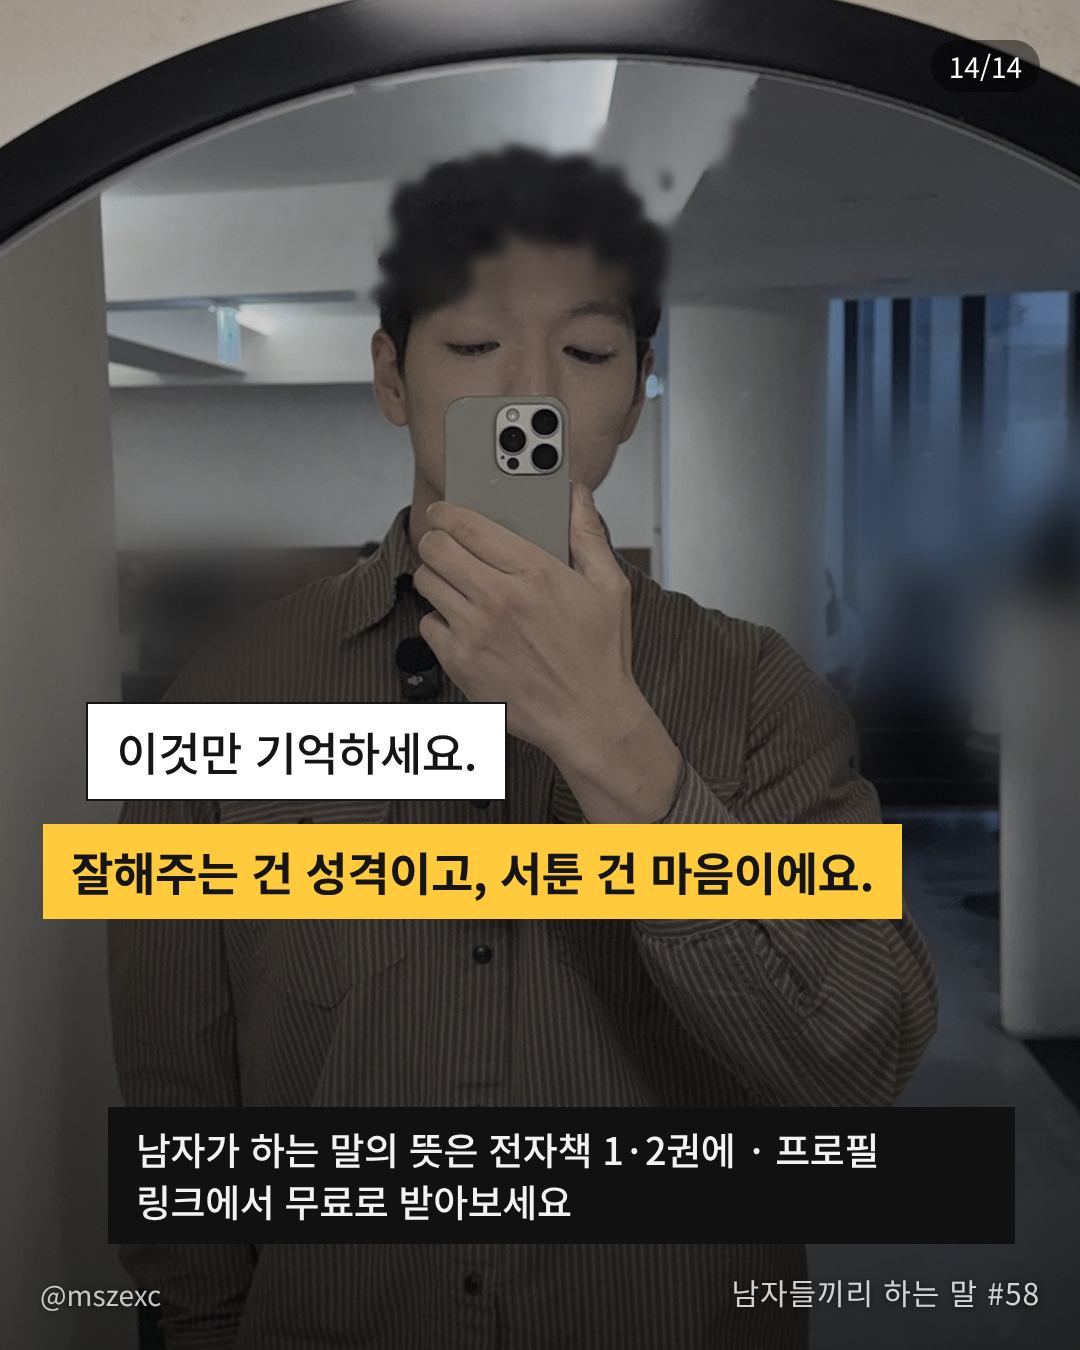
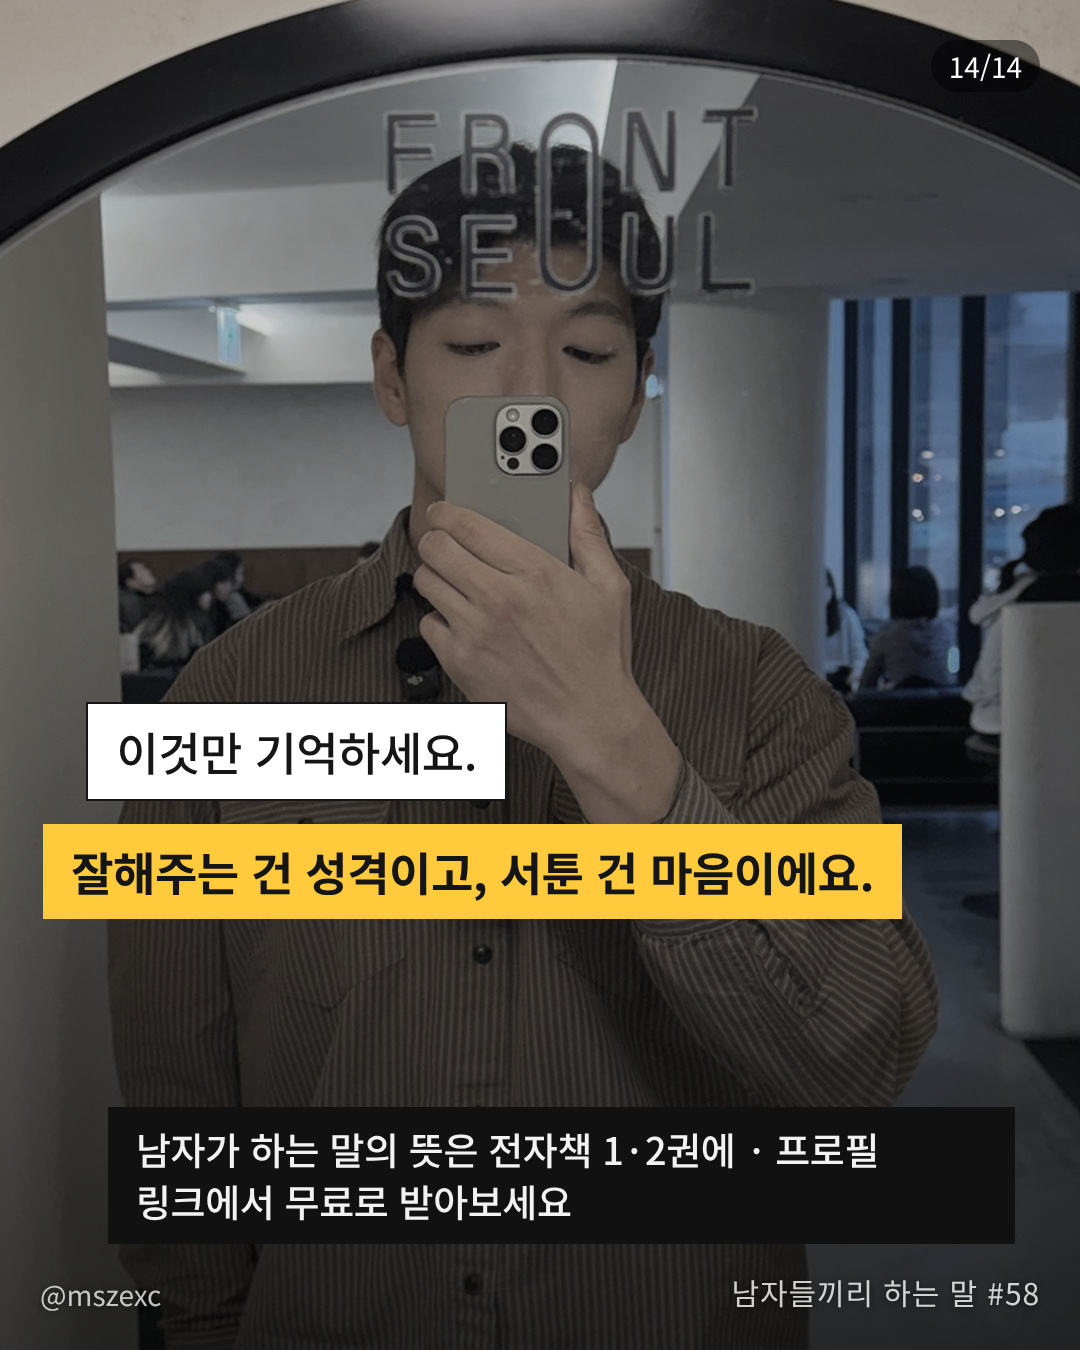
#58 last slide: original photo, no blur
Claude-Session: https://claude.ai/code/session_01J9i5yL8MFhQ5W67Sx3nDW6

Changed region(s): [[0.7639, 0.28, 1.0, 0.56], [0.3361, 0.0622, 0.7028, 0.2489], [0.0917, 0.3733, 0.275, 0.5289]]

diff --git a/carousel/photo_story/s57_60.py b/carousel/photo_story/s57_60.py
@@ -32,7 +32,7 @@ PLAN = {
         9: ('p59n/src_04', []),                                                   # 질투해요 · 잎 사이 조명
         11: ('p59n/src_06', []),                                                  # 다른 사람한테는 어떤지 · 창 너머 조명
         13: ('p59n/src_05', []),                                                  # 서툰 건 당신만 · 크리스털 조명
-        14: ('p59n/src_01c', [((0.29, 0.45, 0.41, 0.54), 14, 0.02), ((0.66, 0.42, 0.85, 0.56), 14, 0.02)], (0.25, 0.25, 0.80, 0.80))},                    # 마지막 장: 같은 셀카 가까이
+        14: ('p59n/src_01', [], (0.25, 0.25, 0.80, 0.80))},                    # 마지막 장: 같은 셀카 가까이
  '60': {1: ('p44/src_11', []), 3: ('p51/src_06', [((0.50, 0.42, 1, 0.85), 10)]), 5: ('p43/src_10', []), 9: ('p55s/src_03', [((0.72, 0.86, 1, 1), 10)]),
         11: ('p51/src_07', []), 13: ('p42/src_07', []), 14: ('p42/src_03', [((0.56, 0.48, 0.75, 0.57), 14)])},
 }
